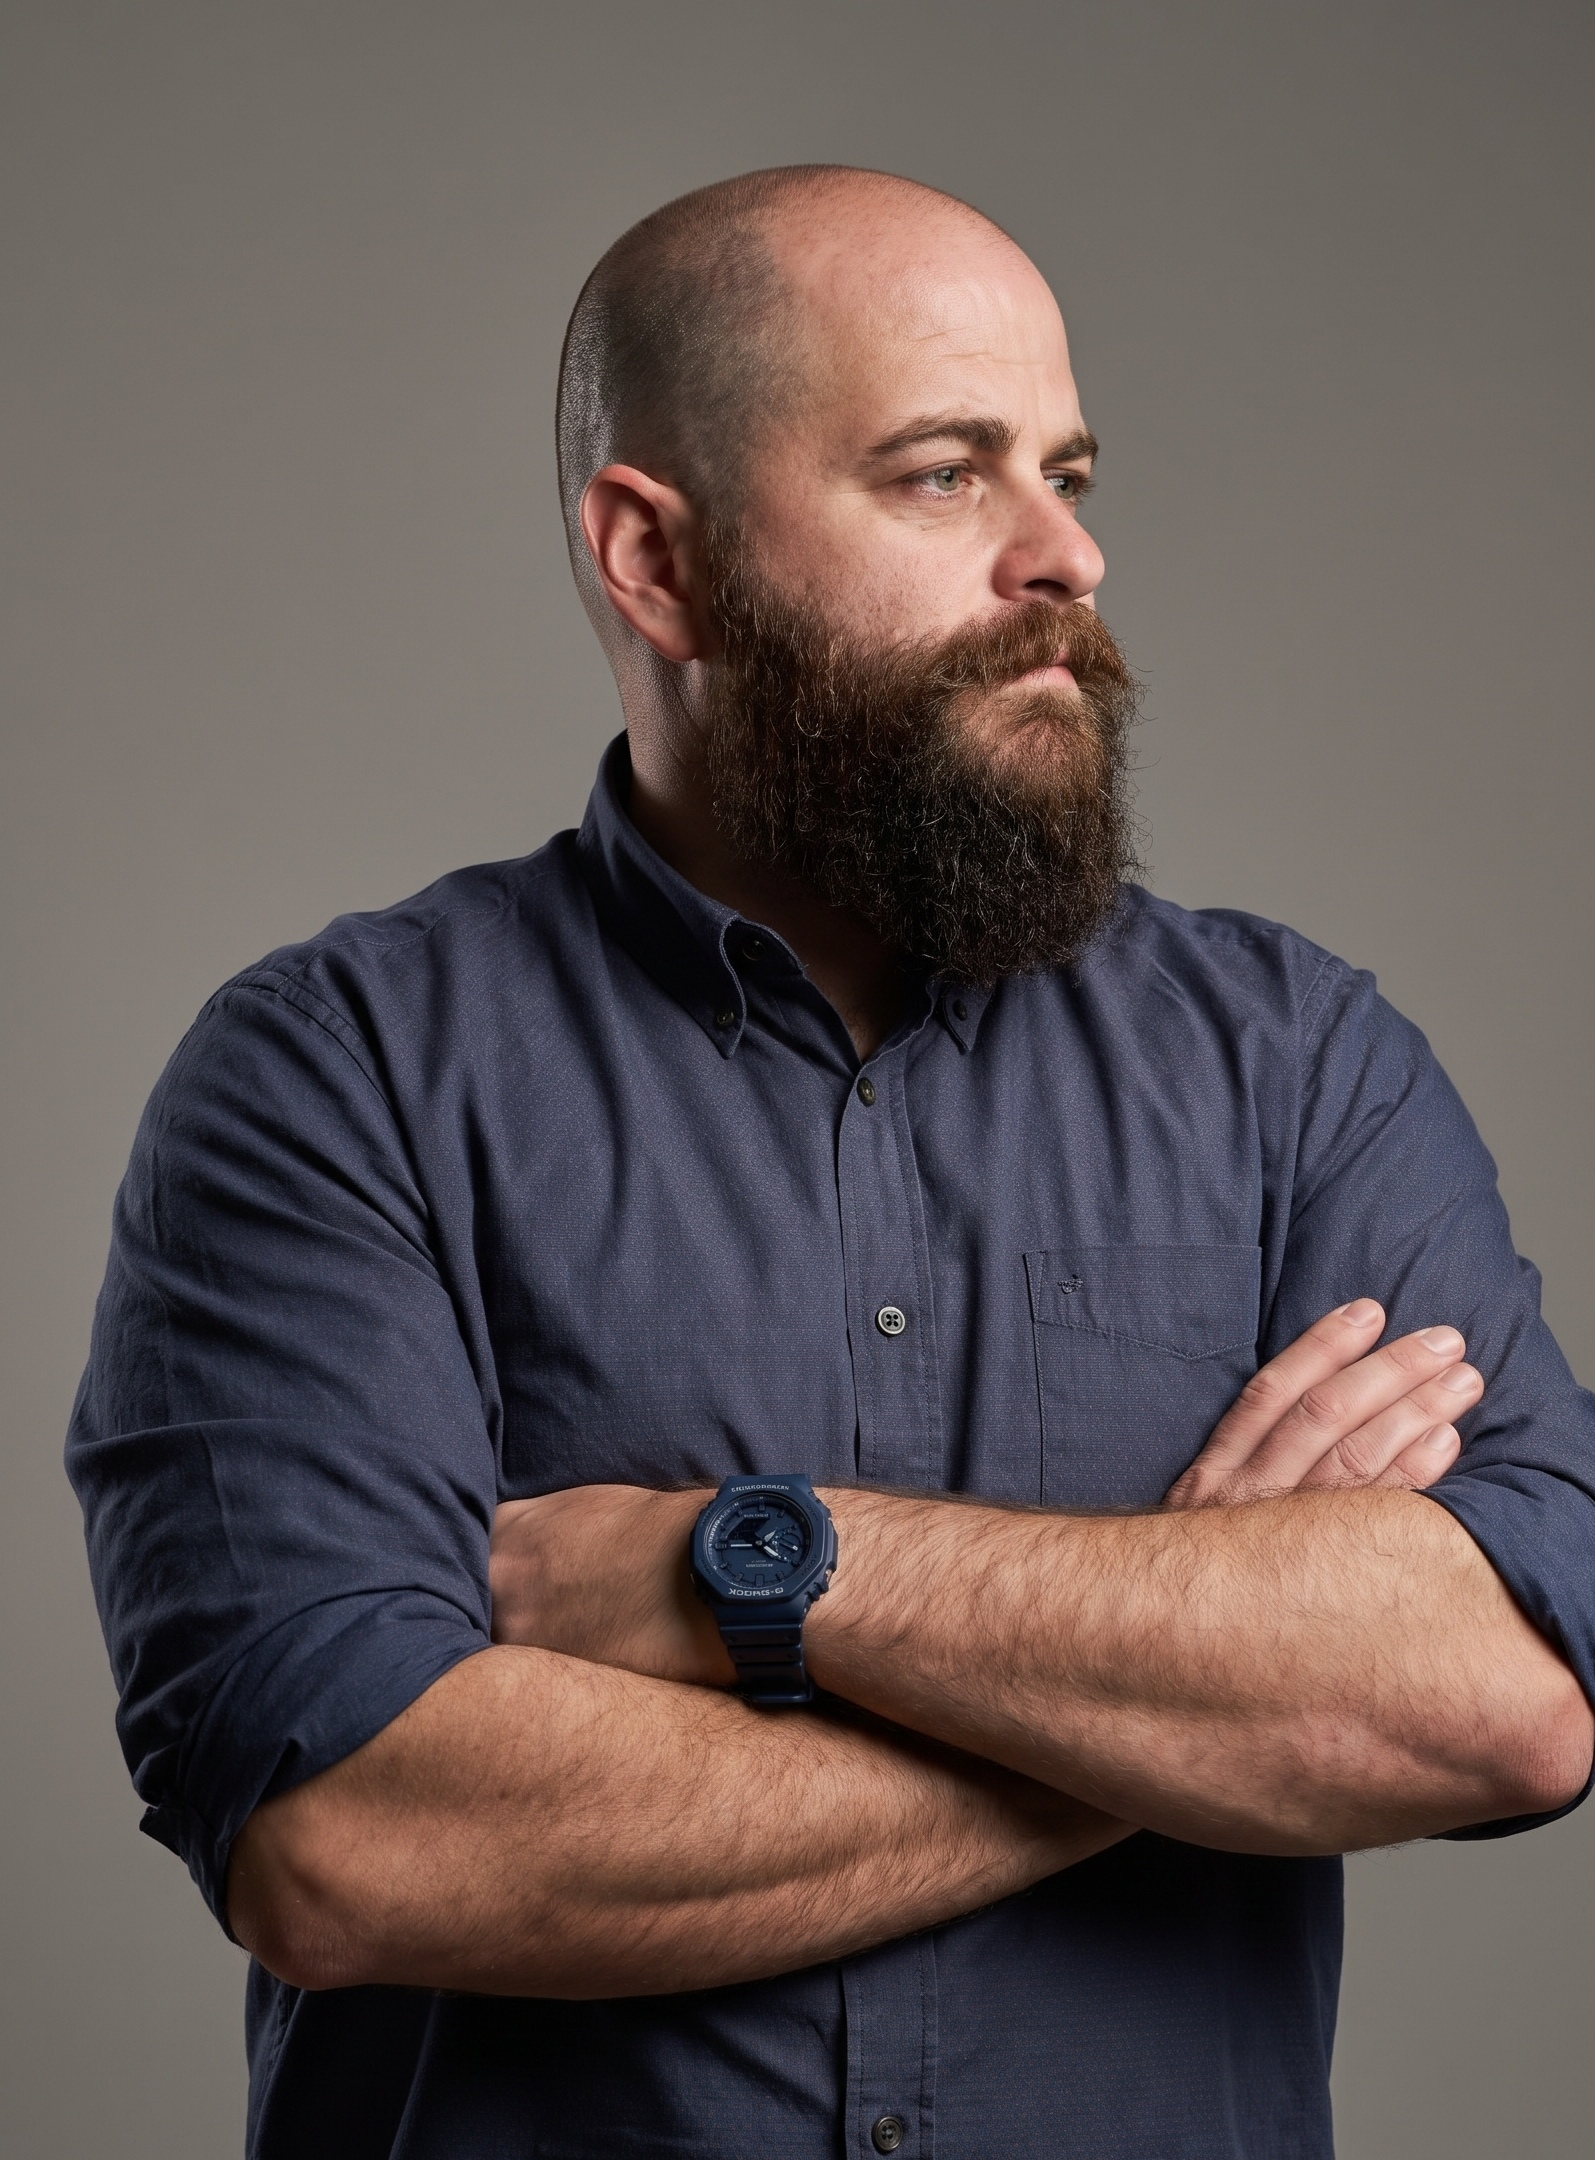
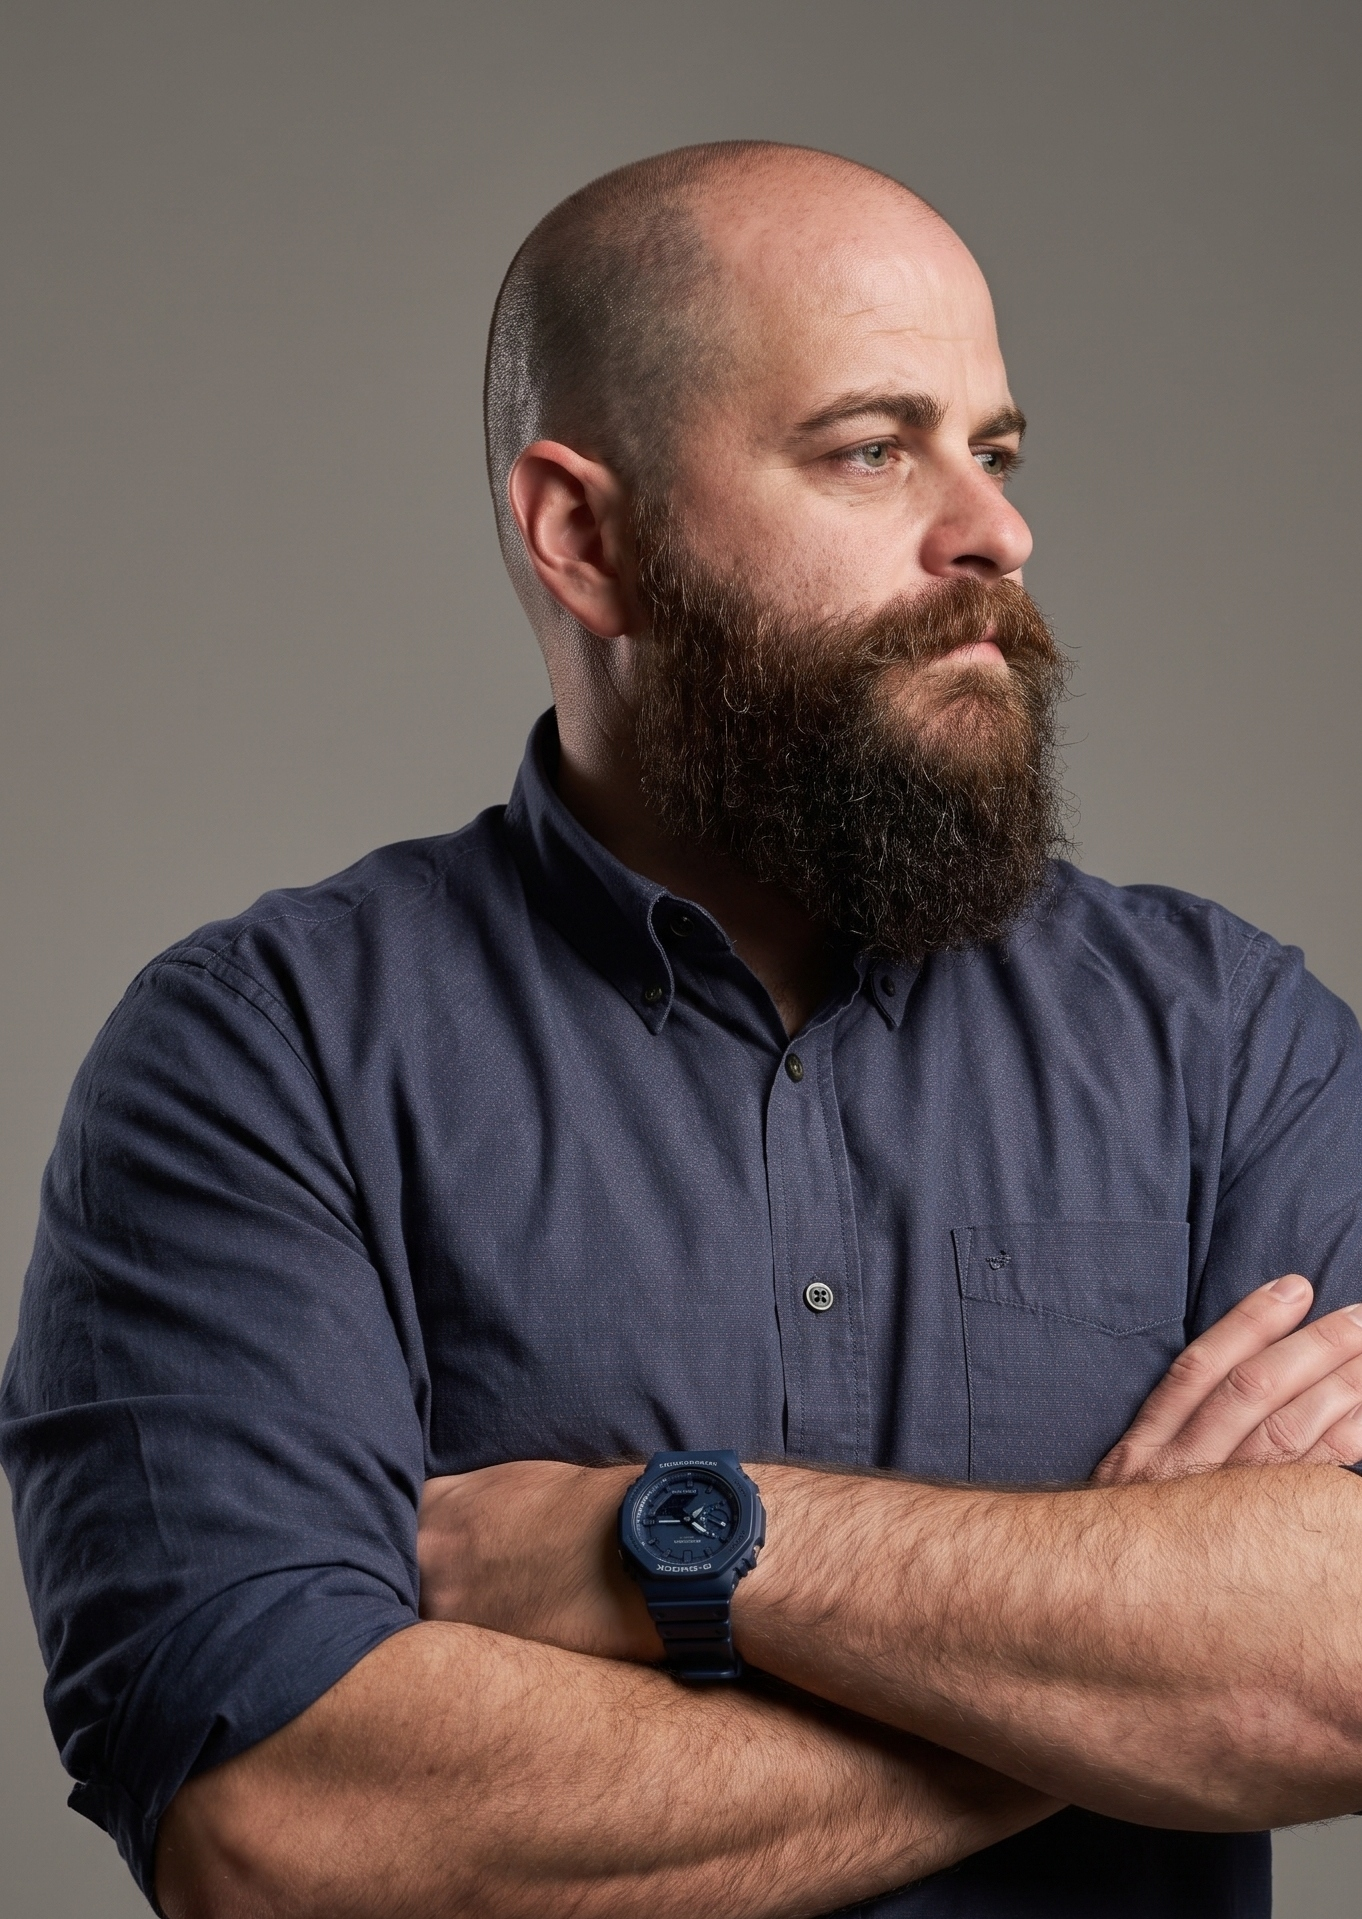
Ampliar y recortar la imagen en un 18% para eliminar por completo cualquier resto de marca de agua

diff --git a/components/About.tsx b/components/About.tsx
@@ -41,7 +41,7 @@ export function About() {
               style={{ border: '1px solid var(--color-accent-orange)', maxWidth: 420, aspectRatio: '500/561' }}
             >
               <TechnicalImage
-                src="/media/pepe_profile.jpeg"
+                src="/media/pepe_profile.jpeg?v=2"
                 alt="Ingeniero Técnico Eléctrico"
                 label="INGENIERO_TECNICO.JPEG"
                 fill